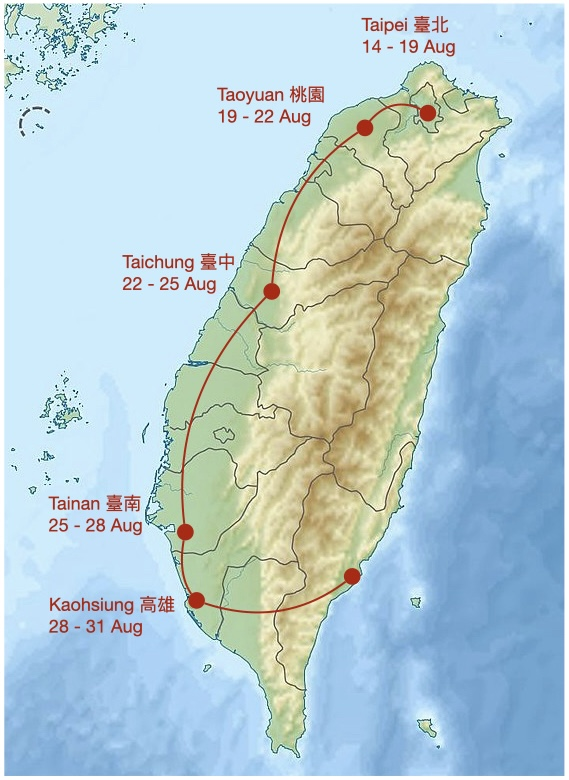
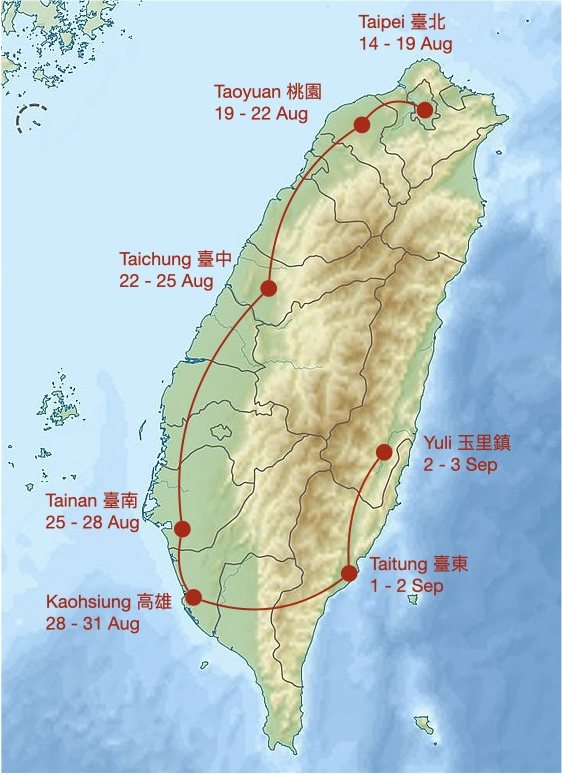
added Taitung

diff --git a/index.html b/index.html
@@ -458,9 +458,38 @@
       <img src="assets/media/Kaohsiung/PXL_20240831_123835809.jpg" width="3280" height="2464" />
     </details>
 
+    <details>
+      <summary>
+        Taitung 臺東: <i>1 - 2 Sep 2024</i>
+      </summary>
+      <img src="assets/media/Taitung/PXL_20240901_024055830.jpg" width="3024" height="4032" />
+      <img src="assets/media/Taitung/PXL_20240901_034730051.jpg" width="3024" height="2731" />
+      <img src="assets/media/Taitung/PXL_20240901_035128153.jpg" width="4032" height="3024" />
+      <img src="assets/media/Taitung/PXL_20240901_035923435.jpg" width="4032" height="3024" />
+      <img src="assets/media/Taitung/PXL_20240901_035931645.jpg" width="4032" height="3024" />
+      <img src="assets/media/Taitung/PXL_20240901_040603397.jpg" width="2464" height="3280" />
+      <img src="assets/media/Taitung/PXL_20240901_043806815.jpg" width="3024" height="4032" />
+      <img src="assets/media/Taitung/PXL_20240901_050539238.jpg" width="3024" height="4032" />
+      <img src="assets/media/Taitung/PXL_20240901_055011255.jpg" width="4032" height="3024" />
+      <img src="assets/media/Taitung/PXL_20240901_061949515.jpg" width="4032" height="3024" />
+      <img src="assets/media/Taitung/PXL_20240901_064317098.jpg" width="4032" height="3024" />
+      <img src="assets/media/Taitung/PXL_20240901_075755681.jpg" width="3024" height="4032" />
+      <img src="assets/media/Taitung/PXL_20240901_093129436.jpg" width="3024" height="4032" />
+      <img src="assets/media/Taitung/PXL_20240901_093651176.jpg" width="4032" height="3024" />
+      <img src="assets/media/Taitung/PXL_20240901_100255124.jpg" width="3024" height="4032" />
+      <img src="assets/media/Taitung/PXL_20240901_101537358.jpg" width="4032" height="3024" />
+      <img src="assets/media/Taitung/PXL_20240901_110838555.NIGHT.jpg" width="3024" height="4032" />
+      <img src="assets/media/Taitung/PXL_20240901_122247431.NIGHT.jpg" width="4032" height="3024" />
+      <img src="assets/media/Taitung/PXL_20240902_035659731.jpg" width="4032" height="3024" />
+      <img src="assets/media/Taitung/PXL_20240902_042126507.jpg" width="3024" height="4032" />
+      <img src="assets/media/Taitung/PXL_20240902_052647139.jpg" width="4032" height="3024" />
+      <img src="assets/media/Taitung/PXL_20240902_070435345.jpg" width="3024" height="4032" />
+      <img src="assets/media/Taitung/PXL_20240902_080940686.jpg" width="4032" height="3024" />
+    </details>
+
     <br> 
 
-    📍 Currently in Taitung 臺東. <br/>
+    📍 Currently in Yuli 玉里鎮. <br/>
 
     <br> 如果你听得懂中文，可以去看我的YouTube频道：
     <a href="https://www.youtube.com/@briceinsingapore">here</a>
